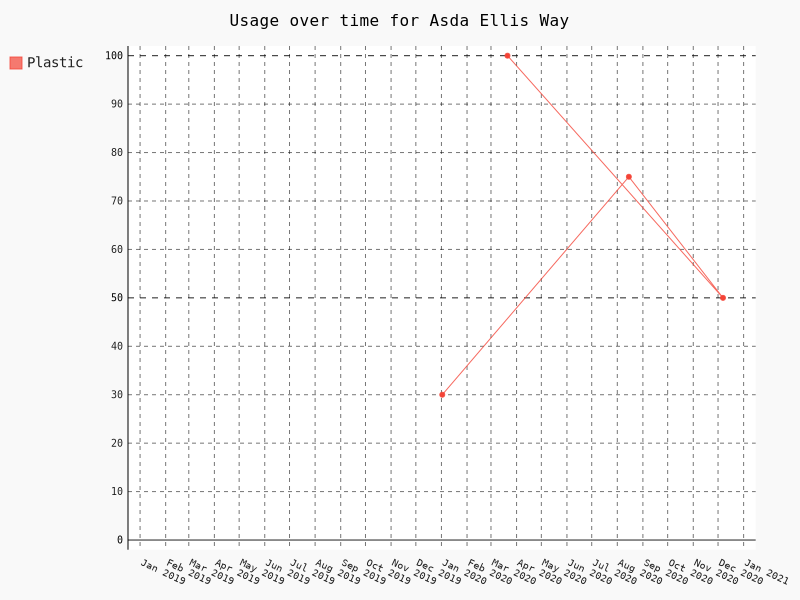
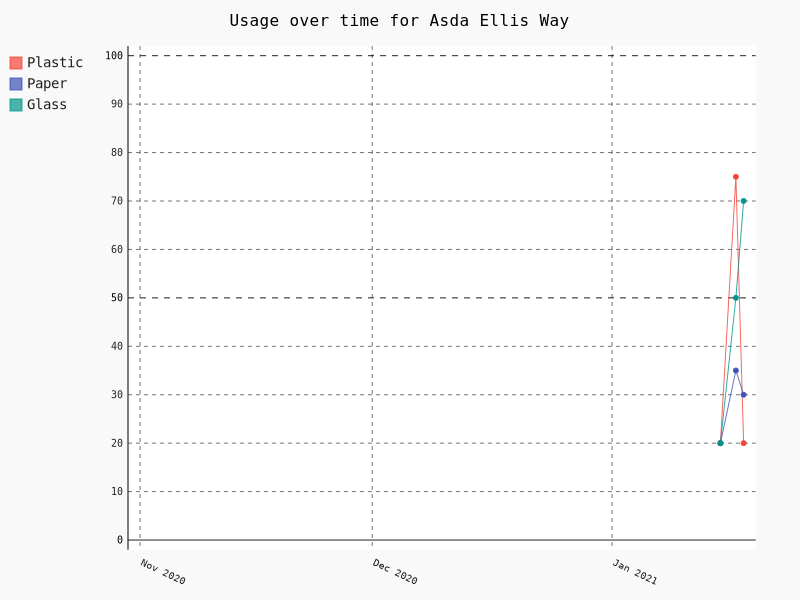
Reports work with database data

diff --git a/Create_Report.py b/Create_Report.py
@@ -91,12 +91,17 @@ class siteAnalysis(object):  # right now this only works with reports starting f
         self.usage_chart.show_x_guides = True  # show grid lines for both axis
         self.usage_chart.show_y_guides = True
         self.usage_chart.__init__
-        self.usage_chart.add("Plastic", [
-            (date(2020, 1, 2), 30),
-            (date(2020, 8, 15), 75),
-            (date(2020, 12, 7), 50),
-            (date(2020, 3, 21), 100)])
-        
+
+        print(self.entries)
+
+        Plastic = [(entry[0],entry[2]) for entry in self.entries]
+        Paper = [(entry[0],entry[3]) for entry in self.entries]
+        Glass = [(entry[0],entry[4]) for entry in self.entries]
+
+        self.usage_chart.add("Plastic",Plastic)
+        self.usage_chart.add("Paper",Paper)
+        self.usage_chart.add("Glass",Glass)
+
         self.usage_chart.render_to_png((self.sitename).replace(' ','_') + '.png')
     
     def months_since(self,target):  # can make this months between when needed
@@ -172,7 +177,7 @@ def sublists(lookfor,lst,namesonly):  # sitedata has been alphabetically ordered
     
 #when using this on another computer, need to find the path of the current file name to save there
 #callAnalysis(datetime.today().replace(day=1,month=1,hour=0, minute=0, second=0, microsecond=0),['Asda Ellis Way','Beeston Street','Pier','Boating lake'])
-callAnalysis(date(2019,1,1),['Asda Ellis Way','Beeston Street','Pier','Boating lake'])  # maybe i can make an advanced customisability at some point
+callAnalysis(date(2020,11,1),['Asda Ellis Way','Beeston Street','Pier','Boating lake'])  # maybe i can make an advanced customisability at some point
 # slightly problematically, pygal uses utc time by default -- might not cause any issues still
 
 # have a 'this month feature', 'past 30 days feature'
